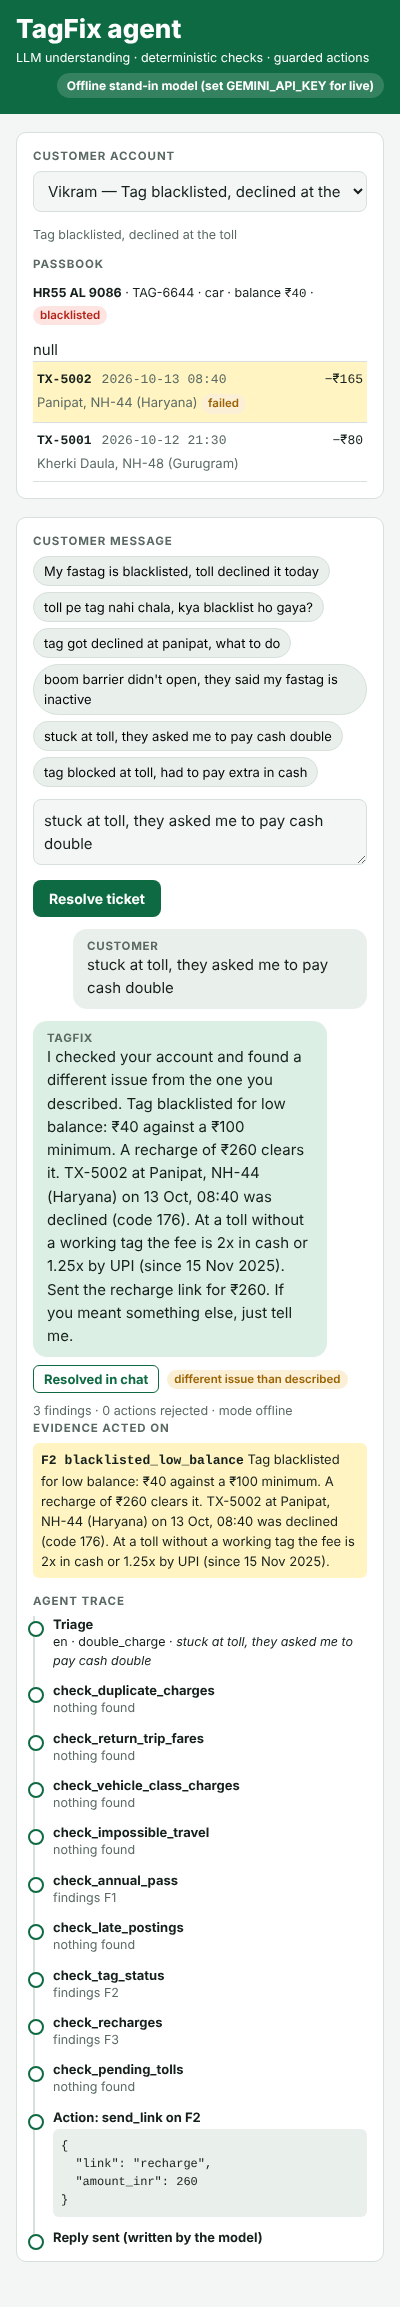
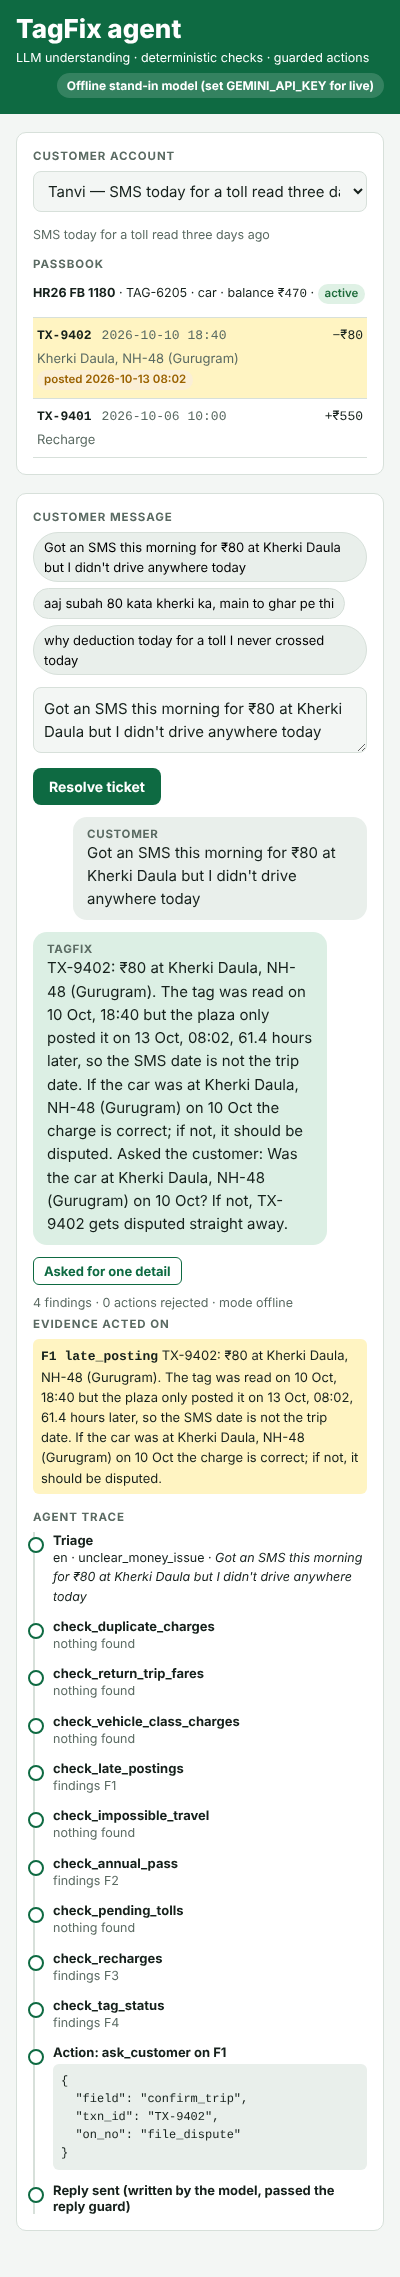
README: add agent console and demo screenshots; fix stray 'null' in console passbook
Claude-Session: https://claude.ai/code/session_014Sm1STWBRxFZYvNQL4NovJ

diff --git a/agent/tagfix_agent/static/console.html b/agent/tagfix_agent/static/console.html
@@ -115,7 +115,7 @@ async function loadAccount() {
       t.status !== "success" ? el("span", { class: "pill warn" }, t.status) : null,
       t.annual_pass_trip ? el("span", { class: "pill ok" }, "pass trip") : null,
       t.posted_time ? el("span", { class: "pill warn" }, `posted ${t.posted_time}`) : null))));
-  $("#overview").replaceChildren(el("h3", { class: "eyebrow" }, "Passbook"), head, pass, list);
+  $("#overview").replaceChildren(...[el("h3", { class: "eyebrow" }, "Passbook"), head, pass, list].filter(Boolean));
   $("#examples").replaceChildren(...(examples[id] || []).map((t) => { const b = el("button", { class: "chip", type: "button" }, t); b.onclick = () => { $("#msg").value = t; run(); }; return b; }));
   $("#msg").value = (examples[id] || [""])[0];
 }
@@ -128,7 +128,7 @@ function renderTrace(r) {
     else if (t.step === "rejected") items.push(el("li", { class: "rej" }, el("div", { class: "step err" }, "Guardrail rejected an action"), el("div", { class: "small" }, t.reason)));
     else if (t.step === "action") items.push(el("li", {}, el("div", { class: "step" }, `Action: ${t.action}`, t.finding ? ` on ${t.finding}` : ""), Object.keys(t.record || {}).length ? el("pre", {}, JSON.stringify(t.record, null, 2)) : null));
     else if (t.step === "reply_rejected") items.push(el("li", { class: "rej" }, el("div", { class: "step err" }, "Reply rejected by guard"), el("div", { class: "small" }, t.problems.join("; "))));
-    else if (t.step === "reply") items.push(el("li", {}, el("div", { class: "step" }, `Reply sent (${t.source === "model" ? "written by the model" : "safe fallback"})`)));
+    else if (t.step === "reply") items.push(el("li", {}, el("div", { class: "step" }, `Reply sent (${t.source === "model" ? "written by the model, passed the reply guard" : "safe fallback"})`)));
     else if (t.step === "triage_failed") items.push(el("li", { class: "rej" }, el("div", { class: "step err" }, "Triage output invalid; fell back"), el("div", { class: "small" }, t.error)));
   }
   return el("ol", { class: "timeline" }, items);

diff --git a/README.md b/README.md
@@ -2,6 +2,10 @@
 
 A FASTag support agent for Park+: it reads a customer's complaint (English, Hinglish or Hindi), checks their own transactions, takes one evidence-backed action, and replies.
 
+![TagFix agent console: an Annual Pass holder charged ₹140 at an NHAI plaza. The agent runs the pass check, files a dispute citing finding F2, and replies.](agent/docs/console-pass.png)
+
+<sub>The agent console (<code>agent/</code>): triage → the check it ran → the finding it acted on → the dispute record → the reply.</sub>
+
 This repo has two parts:
 
 | | What | Run |
@@ -10,6 +14,17 @@ This repo has two parts:
 | `src/`, `web/` | The rules engine and a static demo page (no LLM) used to design the checks and build the labelled test sets. | `npm test && npm run build` |
 
 `data/` holds the shared accounts, plazas, rules and the 90 labelled test messages (`npm run export-data` regenerates it from `src/`).
+
+
+### Screenshots
+
+| Agent: claim doesn't check out, so it finds the real issue | Agent on a phone: late-posted toll, asks before disputing |
+|---|---|
+| ![Customer says they were asked to pay double; the agent finds the tag is blacklisted for low balance and sends a ₹260 recharge link](agent/docs/console-different-issue.png) | ![SMS today for a toll read three days ago; the agent asks whether the car was there before disputing](agent/docs/console-mobile.png) |
+
+| Rules demo: Try it | Scorecard (first-run numbers only) | Product case |
+|---|---|---|
+| ![Static demo: customer picker, passbook and reply](docs/try-desktop.png) | ![Scorecard across four test sets with keyword-only vs triage results](docs/score.png) | ![Product case: problem, measurement, rollout, risks](docs/product.png) |
 
 ---
 

diff --git a/agent/README.md b/agent/README.md
@@ -4,6 +4,8 @@ An LLM agent that resolves FASTag support tickets. It reads the customer's messa
 
 Built with **LangGraph + Gemini**, served by **FastAPI**, and tested with **pytest** (40 tests).
 
+![Trace console: an Annual Pass holder charged ₹140. The agent runs check_annual_pass, gets findings F1 and F2, files a dispute on F2 with NHAI's pass grievance channel, and replies.](docs/console-pass.png)
+
 ```mermaid
 flowchart LR
   M[Customer message] --> T[Triage<br/>LLM: language, topic, claim]
@@ -32,6 +34,18 @@ flowchart LR
 | Allow the action, set amount / transaction / channel | | ✓ `tools.py` |
 | Write the reply in the customer's language | ✓ | |
 | Block invented IDs or amounts, false "refunded" claims, wrong script | | ✓ `guard.py` |
+
+### See it handle a misdescribed complaint
+
+The customer says they were asked to pay double. No double charge exists, so the agent checks the rest of the account, finds the tag is blacklisted for low balance, sends a ₹260 recharge link, and **tells the customer it found a different issue**.
+
+![Agent trace for a misdescribed complaint: nine checks, the blacklist finding acted on, recharge link sent](docs/console-different-issue.png)
+
+<details>
+<summary>On a phone: a toll posted three days late, so it asks before disputing</summary>
+
+<img src="docs/console-mobile.png" alt="Phone view: SMS today for a toll read on 10 Oct; the agent asks whether the car was at Kherki Daula then" width="360">
+</details>
 
 ### Guardrails (all tested in `tests/test_guardrails.py`)
 
